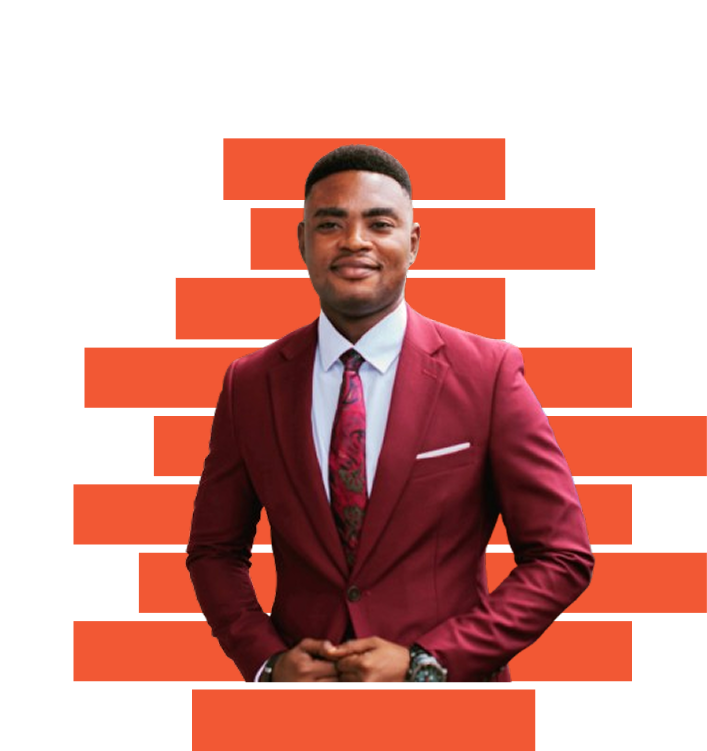
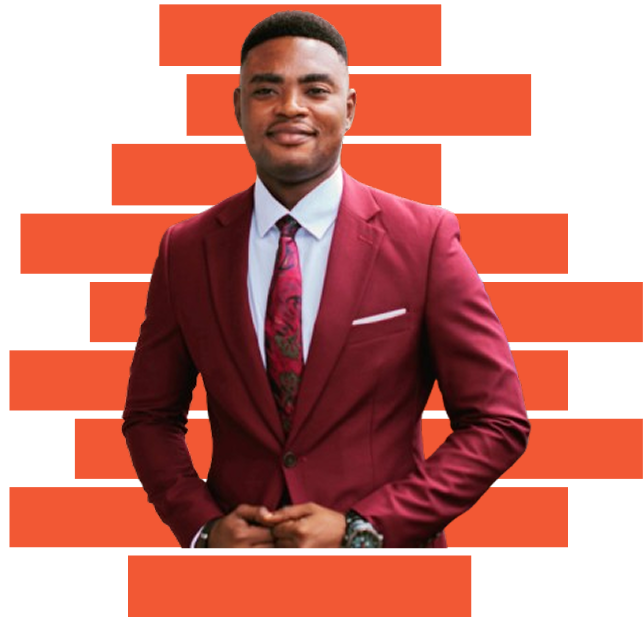
Breaking change: add modification with form

diff --git a/src/components/About.tsx b/src/components/About.tsx
@@ -21,14 +21,13 @@ function About() {
                 </div>
             </div>
               <div className="bg-[#38464B] lg:text-start lg:w-[40%] w-full lg:p-6 p-2 shadow-xl backdrop-opacity-60">
-                 <p className="lg:text-xl text-lg pb-2">Salut ! Je suis  Rayonnant  Nyonsa</p>
-                 <p className="lg:text-xl text-lg w-full lg:w-md pb-2">Je suis <span className="text-[#ff5940]">Developpeur Web FullStack</span> Passionné par le web, je conçois des maquettes percutantes, des bases de données solides et des sites internet sur mesure, alliant esthétique et performance.</p>
-                 <p className="lg:text-xl text-lg w-full lg:w-md pb-2">Je suis toujours en train de développer mes compétences et d'apprendre quelque chose de nouveau. Je suis un homme de contact, un bricoleur, un amoureux de la technologie et des sciences.</p>     
+                 <p className="lg:text-xl text-lg pb-2">Salut ! C'est moi Rayonnant  Nyonsa</p>
+                 <p className="lg:text-xl text-lg w-full lg:w-md pb-2"><span className="text-[#ff5940]">Developpeur Web FullStack</span> passionné par tout ce qui touche au frontend au design et à la technologie. Je conçois des interfaces à la fois percutantes, intuitives et sur mesure, où esthétique rime avec performance.</p>
+                 <p className="lg:text-xl text-lg w-full lg:w-md pb-2">Créatif dans l’âme, je donne vie à des maquettes modernes et épurées. Avec une bonne maitrise côté back, je structure des bases de données fiables et performantes développant ainsi des expériences web qui marquent et engagent</p>     
                  <p className="lg:text-xl text-lg w-full lg:w-md">
-                  Je suis toujours en train de développer mes compétences et d'apprendre quelque chose de nouveau. 
-                  J'ai une soif de connaissances et un désir de comprendre comment les choses fonctionnent ; 
-                  je suis un homme de contact, un bricoleur, un amoureux de la technologie et des sciences.
-                </p>            
+                 Je suis animé par une soif de connaissances : j’apprends, j’expérimente, je progresse.
+                 Curieux de nature, j’aime comprendre comment les choses fonctionnent.
+                 </p>
               </div>
             </div>
         </section>

diff --git a/src/components/Form.tsx b/src/components/Form.tsx
@@ -49,8 +49,8 @@ function Form() {
     return (
         <section id='form'>
            <div className={`container mx-auto px-6 ${visible ? 'visible' : ''}`}>
-             <h2 className="lg:text-6xl text-2xl font-bold mb-4 text-center">Envoyez un message !</h2>
-             <p className="text-center text-gray-200 mb-12">Vous avez une question ou une proposition, ou vous souhaitez simplement <br/> dire bonjour ? Allez-y</p>
+             <h2 className="lg:text-6xl text-2xl font-bold mb-6 text-center">Commandez un site Web</h2>
+             <p className="text-center text-gray-200 mb-12">Transformez votre vision en réalité numérique. Décrivez votre projet ci-dessous, <br />et je vous aiderai à créer un site Web époustouflant et fonctionnel. </p>
     
           <form id="contact-form" className="max-w-3xl mx-auto pt-8" onSubmit={handleSubmit}>
            <div className="grid grid-cols-1 md:grid-cols-2 gap-8 mb-8">
@@ -65,7 +65,7 @@ function Form() {
         </div>
         <div className="mb-8">
             <label className="block text-gray-200 text-base font-semibold mb-2">VOTRE MESSAGE</label>
-             <textarea name="message" placeholder="Écrivez votre message" rows={4} className="input-field w-full font-semibold py-2 text-white text-base" value={formData.message} onChange={handleChange} required></textarea>
+             <textarea name="message" placeholder="Détails du Projet (Décrivez votre idée, vos fonctionnalités souhaitées, et tout ce que nous devrions savoir)" rows={4} className="input-field w-full font-semibold py-2 text-white text-base" value={formData.message} onChange={handleChange} required></textarea>
         </div>
           <button type="submit" className="w-full bg-[#ff5940] hover:bg-orange-800 transition duration-300 ease-in-out font-bold text-white py-3">ENVOYEZ VOTRE MESSAGE</button>
           

diff --git a/src/components/HeroSection.tsx b/src/components/HeroSection.tsx
@@ -6,7 +6,7 @@ function HeroSection() {
     return (
     <section className={`fade-in ${visible ? 'visible' : ''}`}>
        <div className="flex flex-col lg:flex-row items-center justify-between px-6 lg:px-32">
-         <div className='text-center lg:text-left flex flex-col items-center lg:items-start'>
+         <div className='text-center lg:text-left flex flex-col lg:pt-16 items-center lg:items-start'>
             <h2 className="card lg:text-8xl pb-2 text-5xl md:text-6xl text-outline-white font-black">Je suis</h2>
             <h2 className="card lg:text-8xl pb-2 text-5xl md:text-6xl font-black">Devellopeur</h2>
             <h2 className="card lg:text-8xl pb-2 text-5xl md:text-6xl font-black text-[#ff5940]">Fullstack</h2>
@@ -28,7 +28,7 @@ function HeroSection() {
          </div> 
          </div>
         <div>
-            <img src={monProfil} alt="monProfil" width="500" height="500" className="mx-auto block pb-16" />
+            <img src={monProfil} alt="monProfil" width="500" height="500" className="mx-auto block pt-12" />
         </div>
        </div>
 
